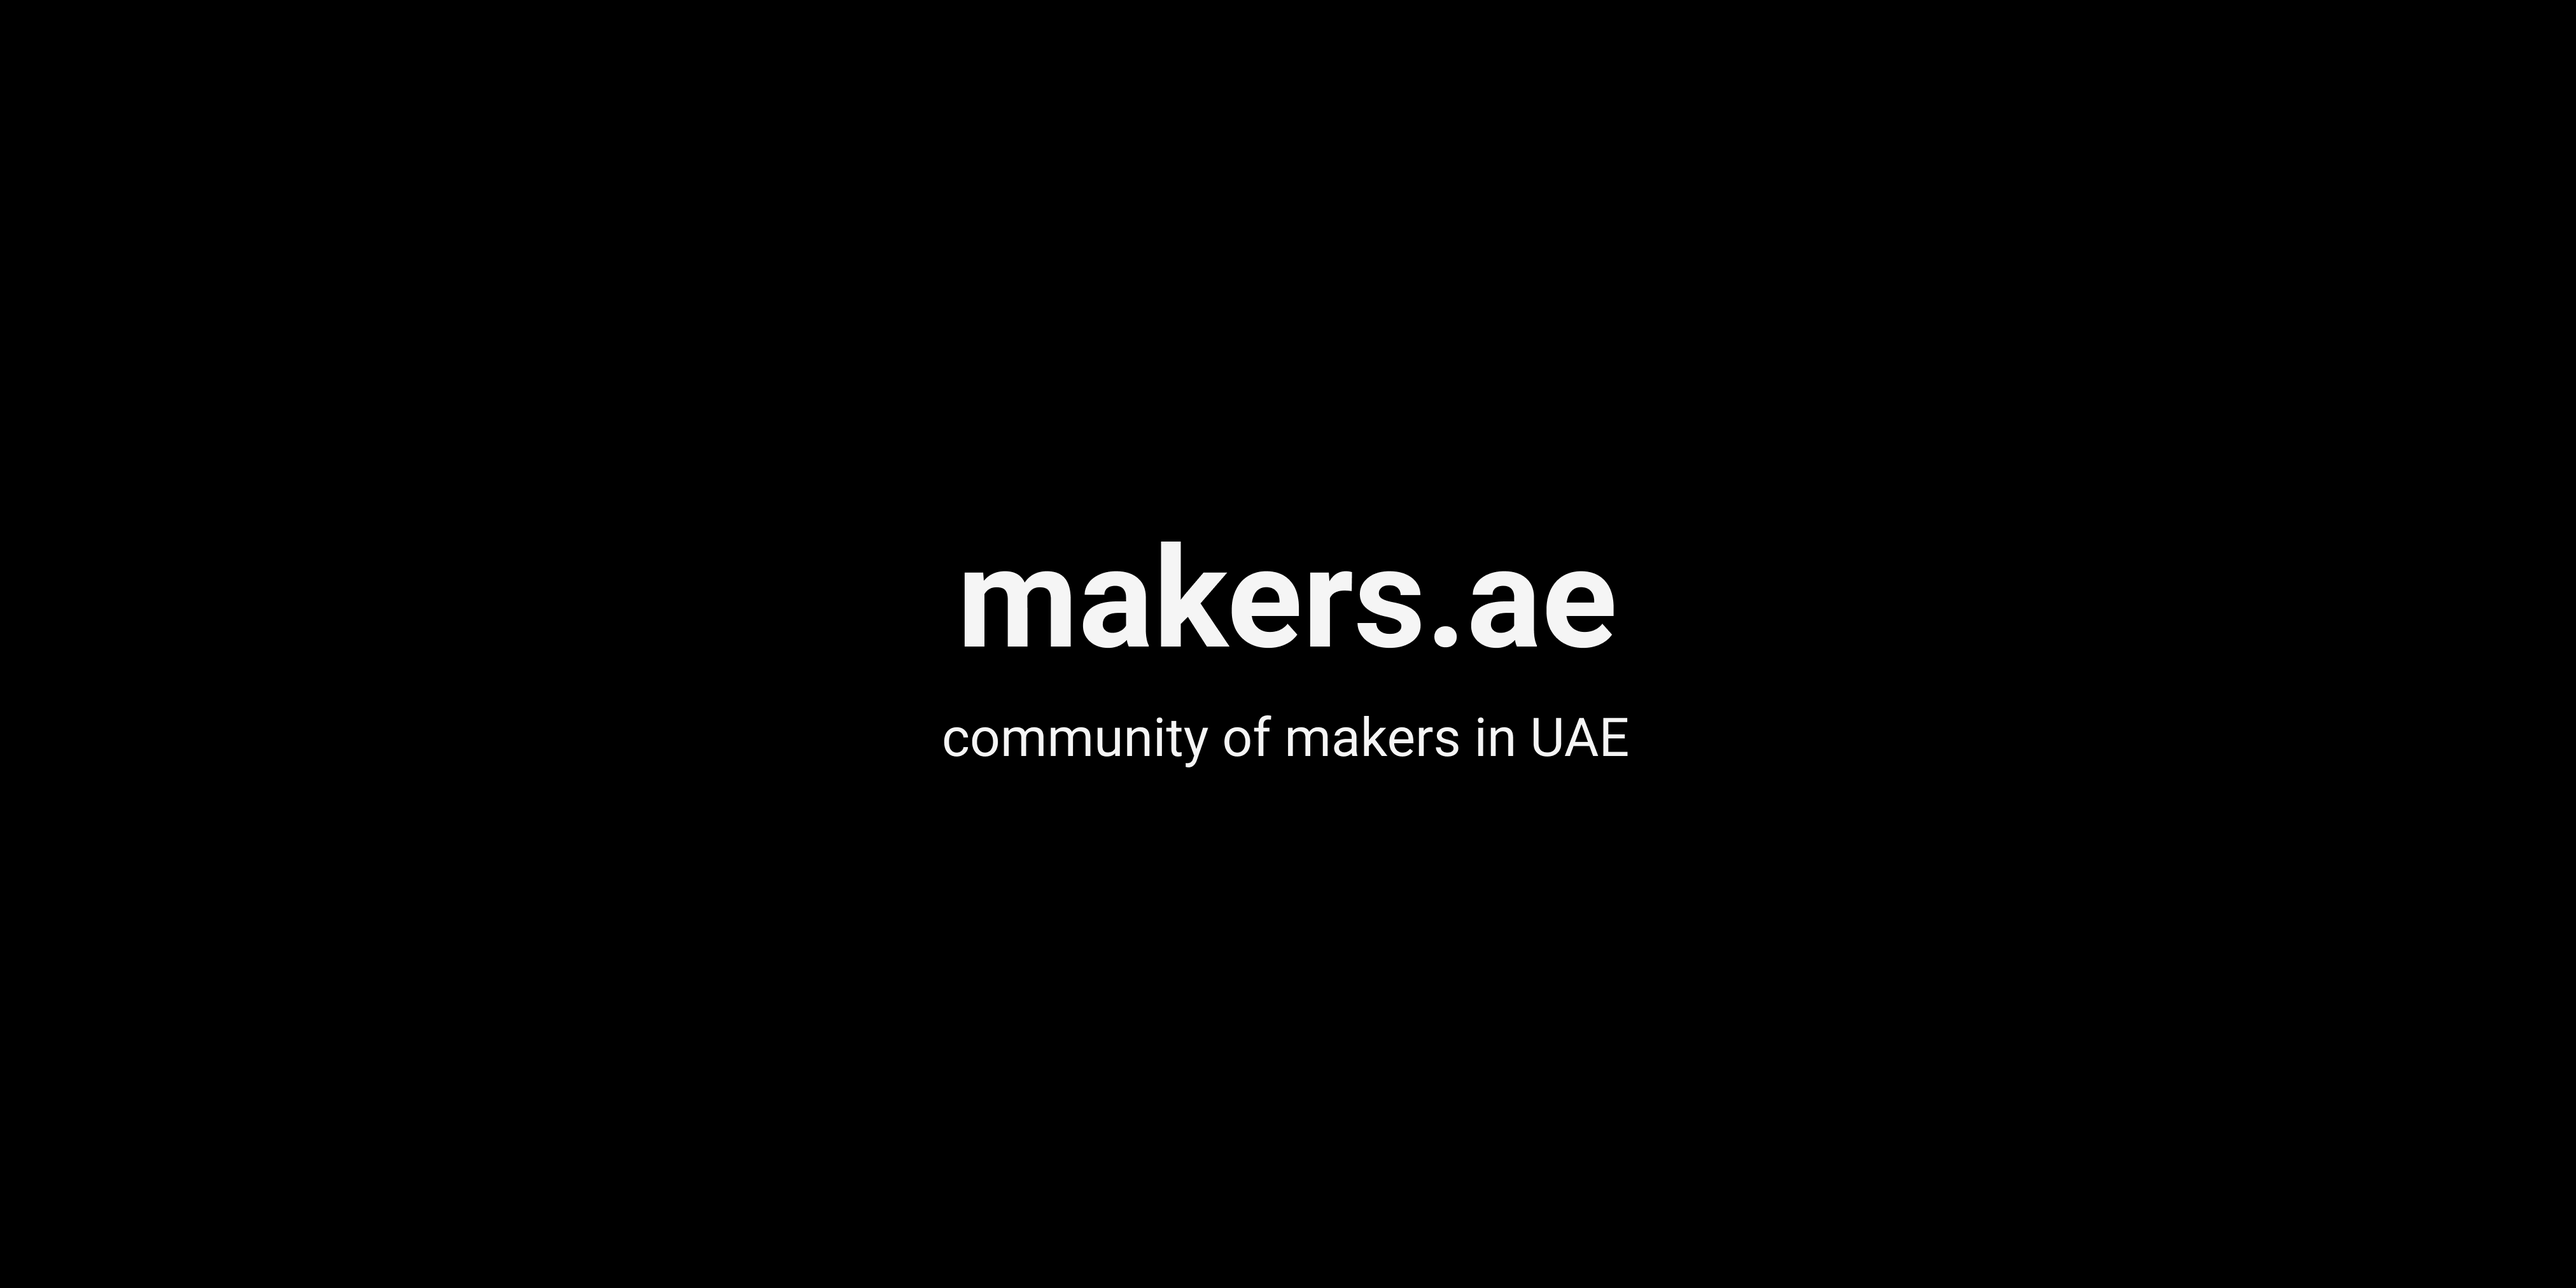
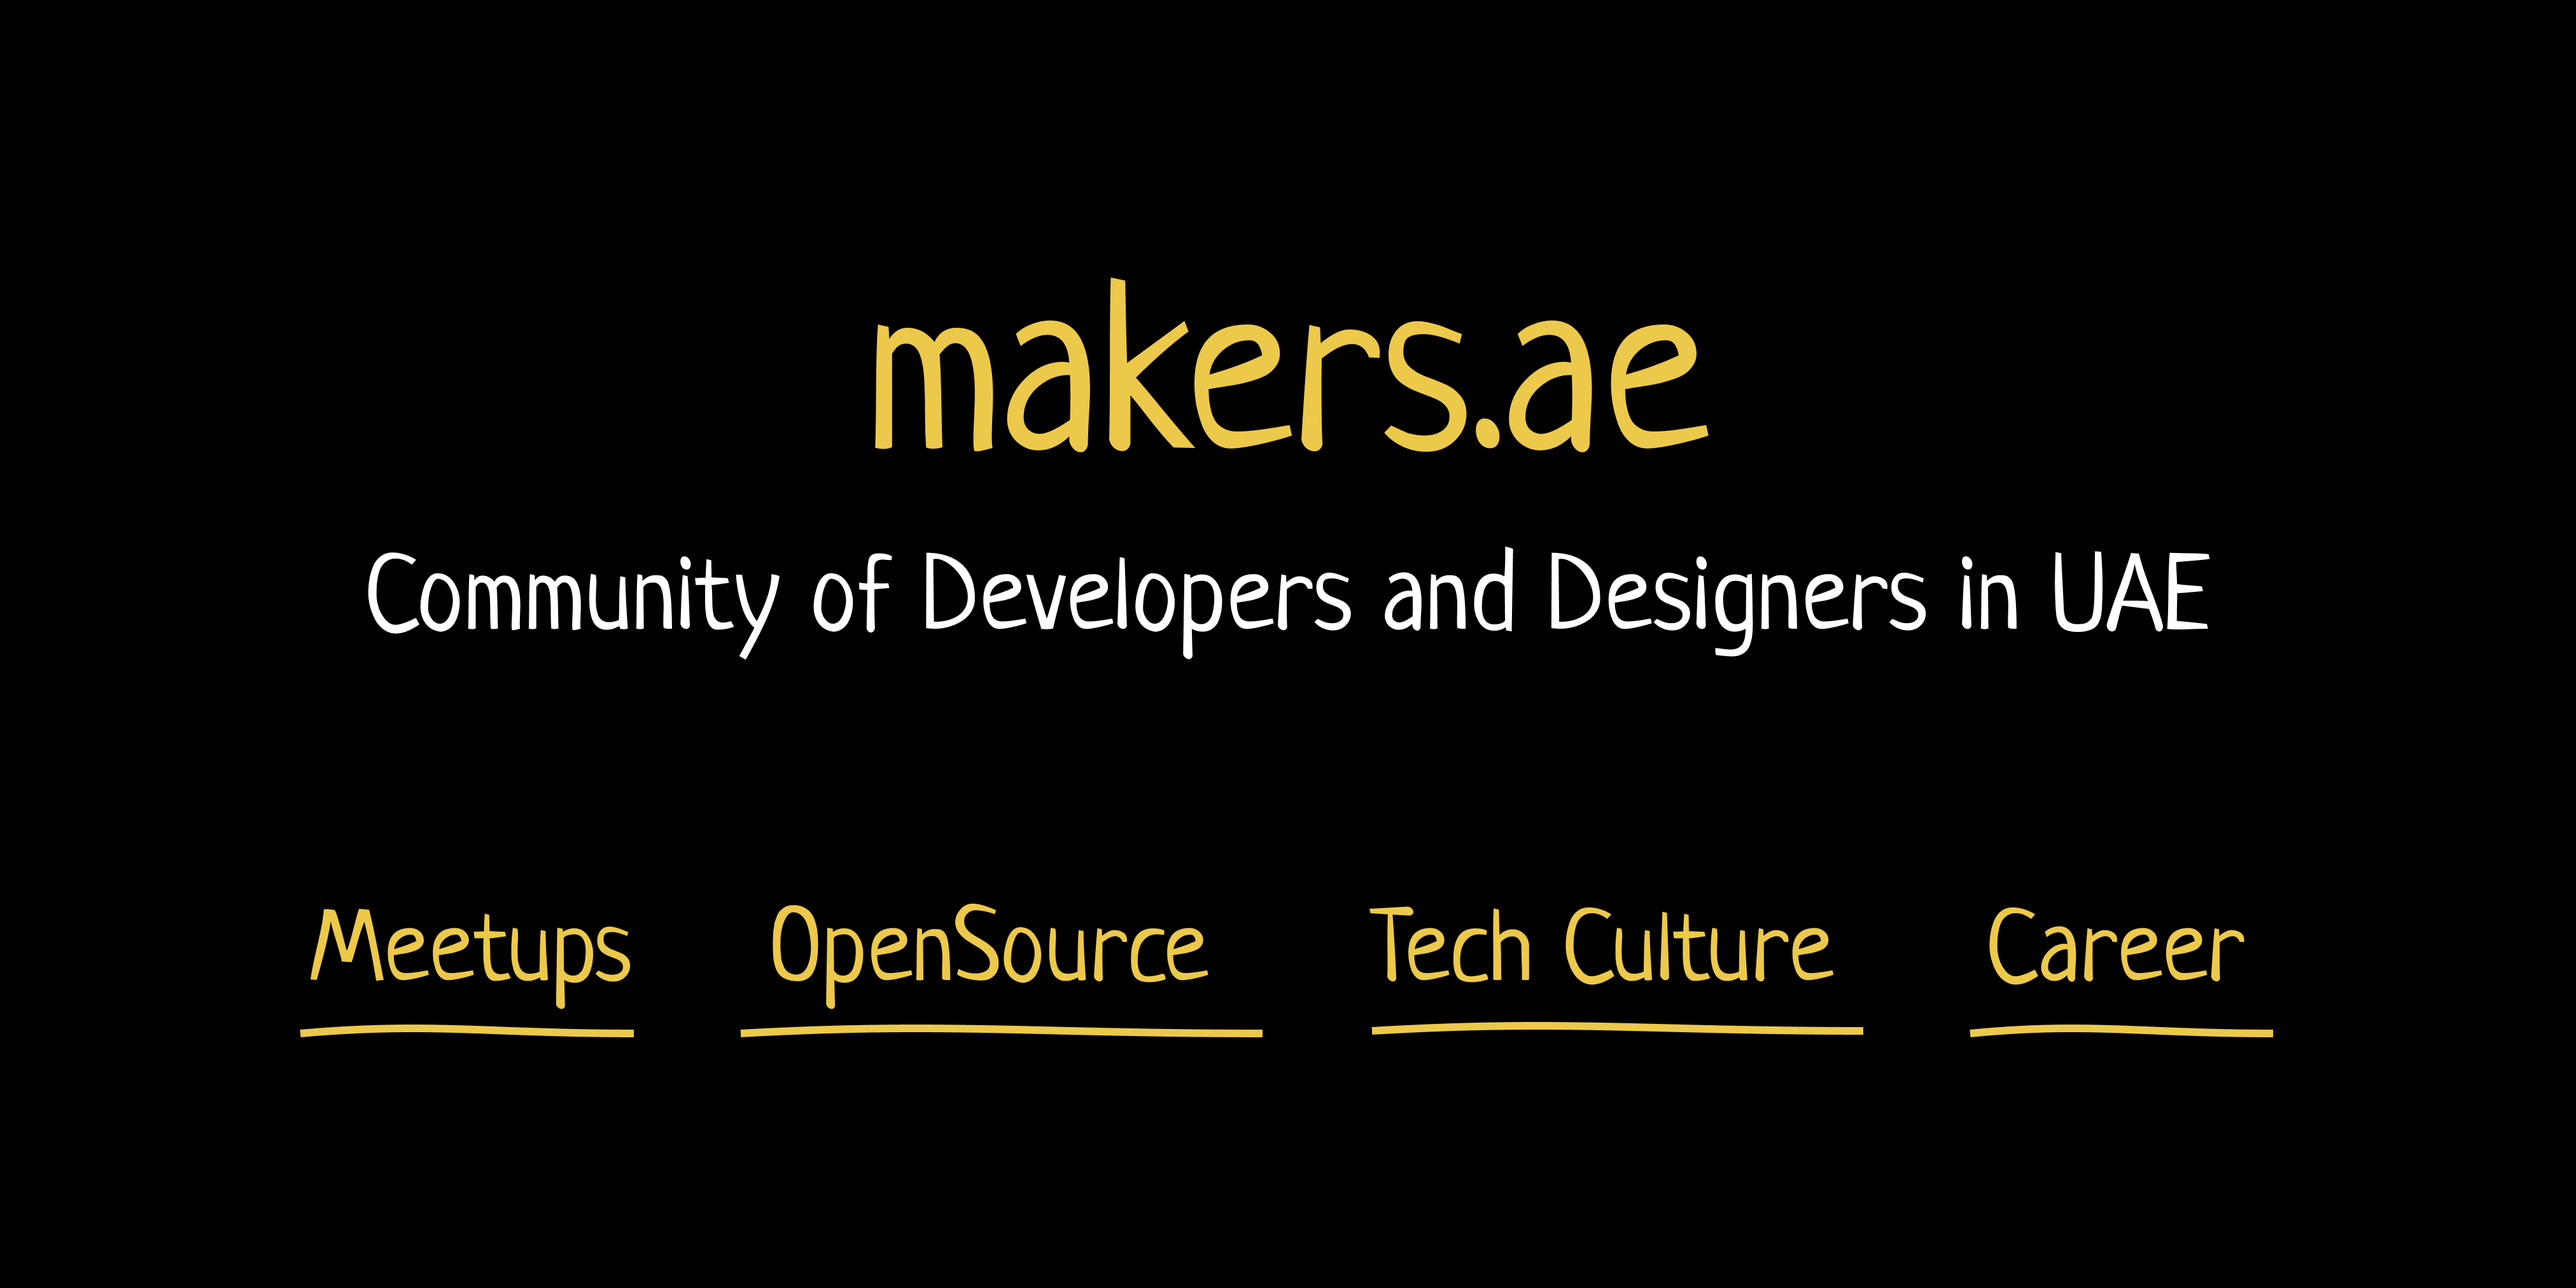
Update SEO description and og-images

diff --git a/configs/site-config.ts b/configs/site-config.ts
@@ -18,7 +18,7 @@ const siteConfig = {
   seo: {
     title: 'makers.ae',
     titleTemplate: '%s - makers.ae',
-    description: 'Open community of makers in UAE',
+    description: 'Community of developers and designers in UAE focusing on open-source, practical knowledge, tech culture, career growth.',
     siteUrl: 'https://makers.ae',
     twitter: {
       handle: '@kamranahmedse',
